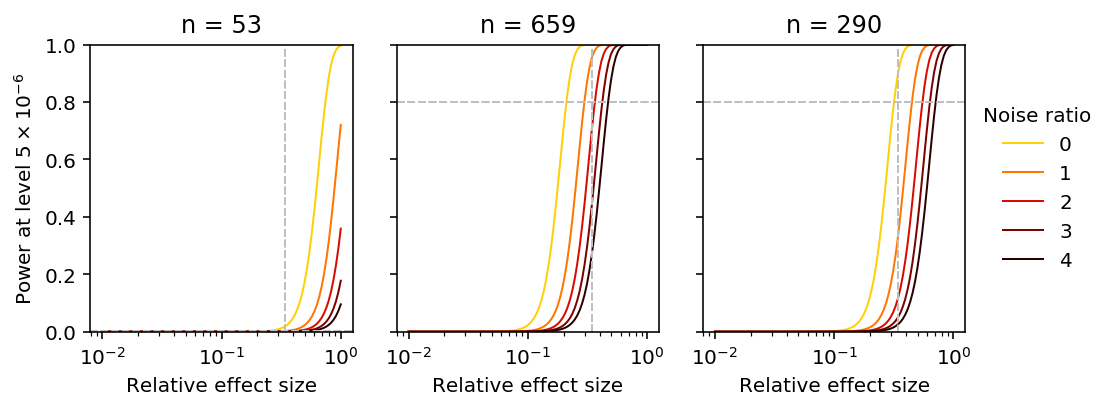
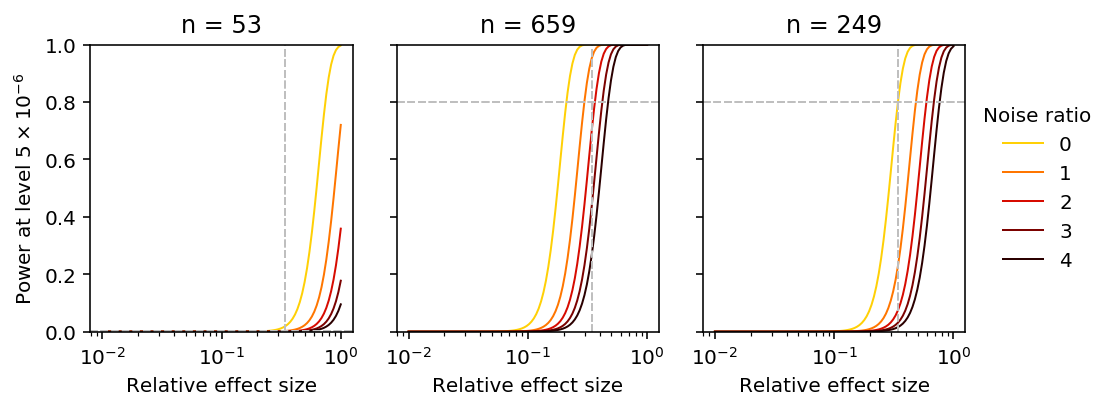
Lower bound the sample size

Changed region(s): [[0.763, 0.088, 0.8546, 0.8215], [0.763, 0.0293, 0.7935, 0.088]]

diff --git a/docs/power.html b/docs/power.html
@@ -1,7 +1,7 @@
 <!DOCTYPE html>
 <html lang="en">
 <head>
-<!-- 2018-09-08 Sat 12:40 -->
+<!-- 2018-09-10 Mon 11:48 -->
 <meta charset="utf-8">
 <meta name="viewport" content="width=device-width, initial-scale=1">
 <title>Power to detect QTLs in single cell data</title>
@@ -2241,8 +2241,9 @@ where \(\Phi(\cdot)\) denotes the standard Gaussian CDF.
 </p>
 
 <div class="org-src-container">
-<pre class="src src-ipython"><span class="org-keyword">def</span> <span class="org-function-name">power</span>(lam, n, delta, alpha):
-  <span class="org-variable-name">N</span> = st.norm()
+<pre class="src src-ipython"><span class="org-variable-name">N</span> = st.norm()
+
+<span class="org-keyword">def</span> <span class="org-function-name">power</span>(lam, n, delta, alpha):
   <span class="org-keyword">return</span> N.cdf(N.ppf(alpha / 2) + lam * np.sqrt(n / (1 + delta)))
 </pre>
 </div>
@@ -2736,8 +2737,7 @@ current study.
 </div>
 
 <div class="org-src-container">
-<pre class="src src-ipython"><span class="org-variable-name">N</span> = st.norm()
-<span class="org-variable-name">pow_53</span> = N.cdf(N.ppf(alpha / 2) + rel_effect * np.sqrt(53 / (1 + delta_disp)))
+<pre class="src src-ipython"><span class="org-variable-name">pow_53</span> = power(rel_effect, 53, delta_disp, alpha)
 pow_53
 </pre>
 </div>
@@ -2765,19 +2765,17 @@ n_80
 </pre>
 
 <p>
-If we assume the noise ratio goes down in the number of cells, then we can
-solve analytically for the sample size \(n\) to achieve 80% power assuming 10
-times as many cells per individual
+We can lower bound \(n\) by taking \(\delta \rightarrow 0\).
 </p>
 
 <div class="org-src-container">
-<pre class="src src-ipython"><span class="org-variable-name">m_80</span> = <span class="org-builtin">int</span>(np.ceil(np.square(N.ppf(.8) - N.ppf(alpha / 2)) * (1 + delta_disp / 10) / np.square(rel_effect)))
+<pre class="src src-ipython"><span class="org-variable-name">m_80</span> = <span class="org-builtin">int</span>(np.ceil(np.square(N.ppf(.8) - N.ppf(alpha / 2)) * 1 / np.square(rel_effect)))
 m_80
 </pre>
 </div>
 
 <pre class="example">
-290
+249
 
 </pre>
 
@@ -2802,7 +2800,7 @@ fig.set_size_inches(7, 3)
 
     ax[i].axvline(x=rel_effect, c=<span class="org-string">'.75'</span>, lw=1, ls=<span class="org-string">'--'</span>)
     <span class="org-keyword">if</span> i == 2:
-      <span class="org-variable-name">realized_scale</span> = np.sqrt((1 + delta_disp / 10) / n)
+      <span class="org-variable-name">realized_scale</span> = np.sqrt(1 / n)
     <span class="org-keyword">else</span>:
       <span class="org-variable-name">realized_scale</span> = np.sqrt((1 + delta_disp) / n)
     <span class="org-variable-name">realized_power</span> = N.cdf(N.ppf(alpha / 2) + rel_effect / realized_scale)
@@ -2828,7 +2826,7 @@ fig.tight_layout()
 </div>
 <div id="postamble" class="status">
 <p class="author">Author: Abhishek Sarkar</p>
-<p class="date">Created: 2018-09-08 Sat 12:40</p>
+<p class="date">Created: 2018-09-10 Mon 11:48</p>
 <p class="validation"><a href="http://validator.w3.org/check?uri=referer">Validate</a></p>
 </div>
 </body>
